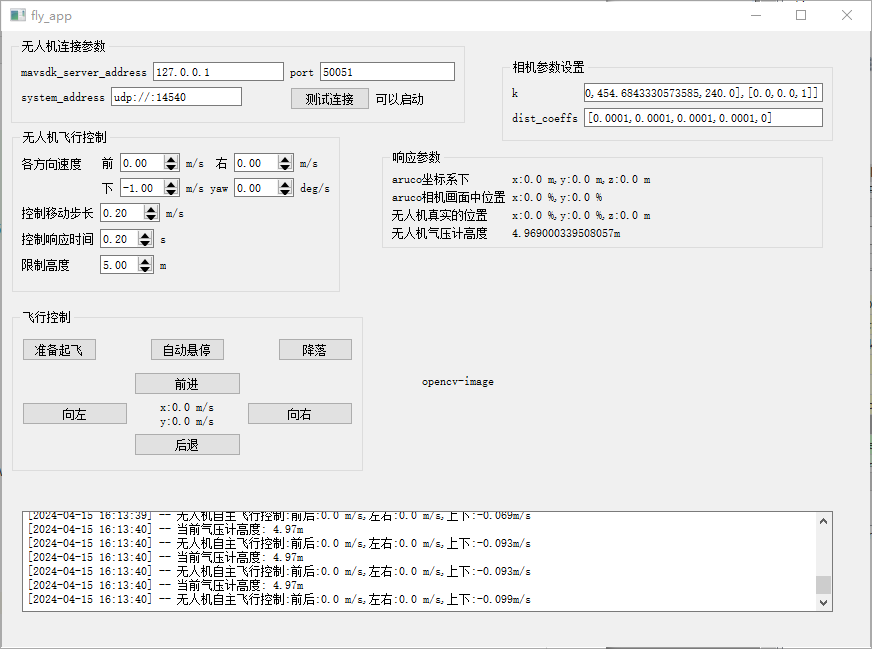
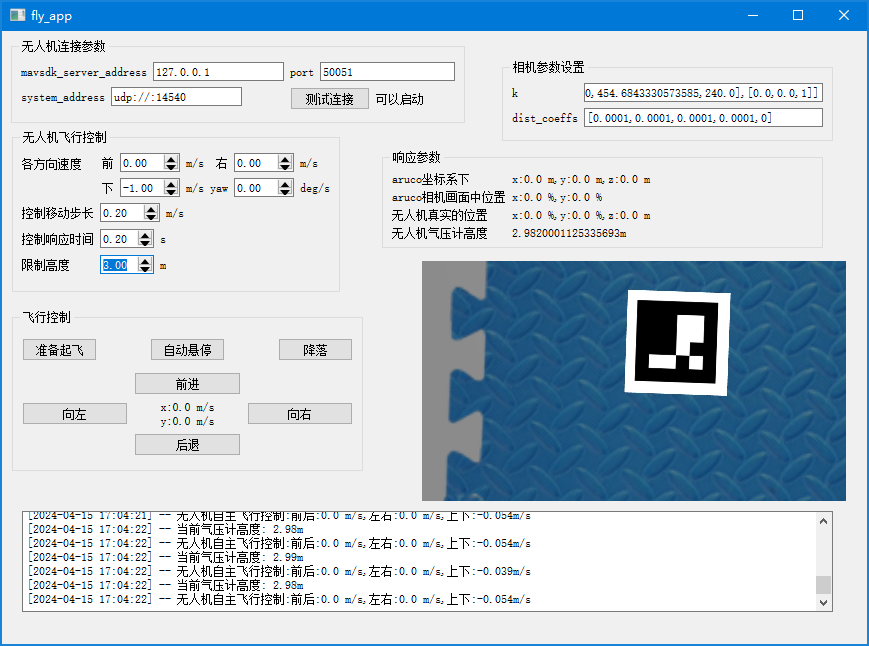
增加湖片区展示ros2的图像到gui中

diff --git a/fly/auto_fly/fly_app.py b/fly/auto_fly/fly_app.py
@@ -2,11 +2,16 @@ import asyncio
 import datetime
 import sys
 import os
+import time
 
+import cv2
+import numpy as np
+import requests
 from PyQt5 import QtCore
+from PyQt5.QtGui import QImage, QPixmap
 from qasync import QEventLoop, QApplication, asyncSlot
 from PyQt5.QtWidgets import QMainWindow
-from PyQt5.QtCore import QTimer
+from PyQt5.QtCore import QTimer, QThread, pyqtSignal
 
 from mavsdk import System
 from mavsdk.offboard import (OffboardError, VelocityBodyYawspeed)
@@ -41,6 +46,32 @@ app_data = {
 drone1: System = System()
 
 
+class VideoThread(QThread):
+    changePixmap = pyqtSignal(QImage)
+
+    def run(self):
+        while True:
+            self.fresh()
+            time.sleep(0.01)
+
+    def fresh(self):
+        url = "http://192.168.1.216:8000/video_feed"
+        stream = requests.get(url, stream=True)
+        bytes = b''
+        for chunk in stream.iter_content(chunk_size=1024):
+            bytes += chunk
+            a = bytes.find(b'\xff\xd8')
+            b = bytes.find(b'\xff\xd9')
+            if a != -1 and b != -1:
+                jpg = bytes[a:b + 2]
+                bytes = bytes[b + 2:]
+                img = cv2.imdecode(np.frombuffer(jpg, dtype=np.uint8), cv2.IMREAD_COLOR)
+                if img is not None:
+                    h, w, ch = img.shape
+                    qt_img = QImage(img.data, w, h, ch * w, QImage.Format_RGB888).rgbSwapped()
+                    self.changePixmap.emit(qt_img)
+
+
 class main_win(QMainWindow, fly_window):
     def __init__(self):
         super(main_win, self).__init__()
@@ -71,6 +102,13 @@ class main_win(QMainWindow, fly_window):
         self.fresh_data_timer.timeout.connect(self.fresh_data)
         # 启动定时器
         self.fresh_data_timer.start()
+
+        self.video_th = VideoThread(self)
+        self.video_th.changePixmap.connect(self.set_image)
+        self.video_th.start()
+
+    def set_image(self, image):
+        self.label.setPixmap(QPixmap.fromImage(image).scaled(int(image.width() * 0.5), int(image.height() * 0.5)))
 
     def drone_forward_add_pushButton_event(self):
         global app_data

diff --git a/fly/ros2_image_to_network.py b/fly/ros2_image_to_network.py
@@ -1,0 +1,55 @@
+import threading
+
+import uvicorn
+from fastapi import FastAPI
+from fastapi.responses import StreamingResponse
+
+import cv2
+import rclpy
+from cv_bridge import CvBridge
+from rclpy.node import Node
+from sensor_msgs.msg import Image
+
+app = FastAPI()
+
+frame = None
+
+
+class ImageSubscriber(Node):
+    def __init__(self):
+        super().__init__('image_subscriber')
+        self.subscription = self.create_subscription(
+            Image, '/camera/image_raw', self.image_callback, 10)
+        self.bridge = CvBridge()
+
+    def image_callback(self, msg):
+        global frame
+        cv_image = self.bridge.imgmsg_to_cv2(msg, "bgr8")
+        ret, jpeg = cv2.imencode('.jpg', cv_image)
+        frame = jpeg.tobytes()
+
+
+def main(args=None):
+    rclpy.init(args=args)
+    image_subscriber = ImageSubscriber()
+    rclpy.spin(image_subscriber)
+    image_subscriber.destroy_node()
+    rclpy.shutdown()
+
+
+def get_frame():
+    global frame
+    yield (b'--frame\r\n'
+           b'Content-Type: image/jpeg\r\n\r\n' + frame + b'\r\n')  # 生成帧数据
+
+
+@app.get('/video_feed')
+def video_feed():
+    global image_subscriber
+    return StreamingResponse(get_frame(), media_type='multipart/x-mixed-replace; boundary=frame')
+
+
+if __name__ == '__main__':
+    # 启动无人机监听线程
+    threading.Thread(target=main).start()
+    uvicorn.run(app, host='0.0.0.0', port=8000)

diff --git a/fly/auto_fly/fly_gui.py b/fly/auto_fly/fly_gui.py
@@ -14,7 +14,7 @@ from PyQt5 import QtCore, QtGui, QtWidgets
 class Ui_fly_app(object):
     def setupUi(self, fly_app):
         fly_app.setObjectName("fly_app")
-        fly_app.resize(868, 616)
+        fly_app.resize(842, 616)
         self.centralwidget = QtWidgets.QWidget(fly_app)
         self.centralwidget.setObjectName("centralwidget")
         self.groupBox = QtWidgets.QGroupBox(self.centralwidget)
@@ -289,7 +289,7 @@ class Ui_fly_app(object):
         self.gridLayout.addWidget(self.drone_control_xy_label, 1, 1, 1, 1)
         self.verticalLayout.addLayout(self.gridLayout)
         self.label = QtWidgets.QLabel(self.centralwidget)
-        self.label.setGeometry(QtCore.QRect(420, 230, 424, 240))
+        self.label.setGeometry(QtCore.QRect(400, 230, 424, 240))
         self.label.setObjectName("label")
         self.textBrowser = QtWidgets.QTextBrowser(self.centralwidget)
         self.textBrowser.setGeometry(QtCore.QRect(20, 480, 811, 101))
@@ -301,7 +301,7 @@ class Ui_fly_app(object):
         self.textBrowser.setObjectName("textBrowser")
         fly_app.setCentralWidget(self.centralwidget)
         self.menubar = QtWidgets.QMenuBar(fly_app)
-        self.menubar.setGeometry(QtCore.QRect(0, 0, 868, 22))
+        self.menubar.setGeometry(QtCore.QRect(0, 0, 842, 22))
         self.menubar.setObjectName("menubar")
         fly_app.setMenuBar(self.menubar)
 

diff --git a/fly/auto_fly/README.md b/fly/auto_fly/README.md
@@ -14,6 +14,9 @@ C:\DevelopmentTools\Miniconda3\miniconda3\envs\pyqt5_env\Scripts\pyuic5.exe fly_
 - [x] 设置无人机起飞高度
 - [x] 设置无人机飞行的启动参数
 - [x] 设置打印消息，或者标签显示消息
+- [x] 显示ros2传回的画面展示到gui中
+- [ ] 识别二维码
+- [ ] 实现自动悬停
 
 允许设置使用ros连接查看摄像头或者直接通过opencv连接远程摄像头
 ros连接摄像头可能需要系统安装ros，可以在运行摄像头的电脑上使用vlc来将摄像头发布为网络摄像头，那样在windows下就不需要安装ros2以及其他依赖
